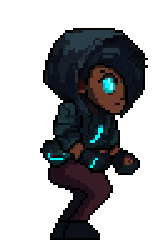
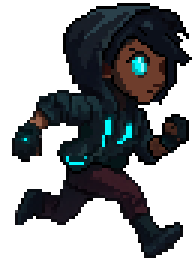
troca inicial de fases e run inicial

diff --git a/levels.py b/levels.py
@@ -1,0 +1,246 @@
+import pgzrun, random, time
+from pygame import Rect
+
+#region GameConfig
+WIDTH, HEIGHT, TITLE = (1280, 720, "Neo-Nina and The Systems")
+GRAVITY, MAX_ALLIES = (0.4, 3)
+
+slower_anim_nina = 3
+game_level, bg_game = (1, None)
+platforms, enemies = ([], [])
+
+bg_music = 'Hardware_Prototype.wav'
+bg_menu = Actor("background_menu", (WIDTH//2, HEIGHT//2))
+#endregion
+#region Classes
+class NeonNina:
+    def __init__(self, x, y):
+        self.actor = Actor('neon_nina_idle_1', (x, y))
+        self.vx, self.vy = (0, 0)
+        self.speed, self.on_ground = (4, False)
+        self.action = 'idle'
+        self.animations = {
+            'idle': ['neon_nina_idle_1', 'neon_nina_idle_2'],
+            'jump': ['neon_nina_jump_1','neon_nina_jump_2','neon_nina_jump_3'],
+            'run': ['neon_nina_run_1', 'neon_nina_run_2'],
+            'hit': ['neon_nina_hit'],
+        }
+        self.frame, self.last_frame_time = 0, time.time()
+        self.animation_delay = slower_anim_nina * 0.1
+        self.allies, self.hp = [], 100
+
+    def draw(self):
+        self.actor.draw()
+
+    def update(self):
+        if not self.on_ground:
+            self.action = 'jump'
+        elif keyboard.left:
+            self.vx, self.actor.flip_x, self.action = -self.speed, True, 'run'
+        elif keyboard.right:
+            self.vx, self.actor.flip_x, self.action = self.speed, False, 'run'
+        else:
+            if keyboard.up:
+                self.vy, self.on_ground, self.action = -12, False, 'jump'
+            else:
+                self.vx, self.action = 0, 'idle'
+
+        self.vy += GRAVITY
+        self.actor.x += self.vx
+        self.actor.y += self.vy
+
+        self.actor.x = max(0, min(WIDTH, self.actor.x))
+        self.on_ground = False
+
+        for p in platforms:
+            if self.actor.colliderect(p.rect()) and self.vy >= 0:
+                self.actor.y = p.rect().top - self.actor.height // 2
+                self.vy, self.on_ground = 0, True
+
+        if self.actor.x > WIDTH-48:
+            change_level()
+
+        self.animate()
+
+    def animate(self):
+        now = time.time()
+        if now - self.last_frame_time >= self.animation_delay:
+            frames = self.animations[self.action]
+            self.frame = (self.frame + 1) % len(frames)
+            self.actor.image = frames[self.frame]
+            self.last_frame_time = now
+
+class Platform:
+    def __init__(self, x, y, sprite):
+        self.actor = Actor(sprite, (x, y))
+    def draw(self): self.actor.draw()
+    def rect(self): return self.actor._rect
+
+class EnemyDrone:
+    def __init__(self, x, y):
+        self.actor = Actor('enemy_drone', (x, y))
+        self.vy = random.choice([-1.5, 1.5]) * random.uniform(0.8, 1.6)
+        self.upper_limit, self.lower_limit = y - 40, y + 40
+        self.ally, self.target = False, None
+
+    def update(self):
+        self.actor.y += self.vy
+        if self.actor.y < self.upper_limit or self.actor.y > self.lower_limit:
+            self.vy *= -1
+        if self.actor.distance_to(session.neon_nina.actor) < 200:
+            self.attack(session.neon_nina.actor)
+
+    def attack(self, target):
+        screen.draw.line(self.actor.pos, target.pos, "yellow")
+    def draw(self): self.actor.draw()
+
+class GameSession:
+    def __init__(self):
+        self.reset()
+        self.neon_nina = NeonNina(WIDTH // 2, HEIGHT // 2)
+        self.enemies = []
+
+    def reset(self):
+        self.state = 'menu'
+
+    def update(self):
+        self.neon_nina.update()
+        for enemy in self.enemies:
+            enemy.update()
+
+    def draw(self):
+        screen.clear()
+        if self.state == 'playing':
+            self.neon_nina.draw()
+        for enemy in self.enemies:
+            enemy.draw()
+
+    def start_game(self):
+        self.reset()
+        self.state = 'playing'
+        self.neon_nina = NeonNina(100, 400)
+        self.enemies = drones
+
+    def game_over(self):
+        pass  # Disabled to prevent interruption during level testing
+
+class Level:
+    def __init__(self, phase, bg):
+        self.bg = bg
+        self.phase = phase
+        self.active = False
+
+    def start(self):
+        global bg_game
+        self.active = True
+        bg_game = Actor(self.bg, (WIDTH // 2, HEIGHT // 2))
+
+    def draw(self):
+        if self.active and bg_game:
+            bg_game.draw()
+#endregion
+
+#region Level system
+levels = [
+    Level(1, 'background_city_1'),
+    Level(2, 'background_city_2'),
+    Level(3, 'background_city_2')
+]
+current_level_index = 0
+current_level = levels[current_level_index]
+
+def change_level():
+    global current_level_index, platforms, drones
+    current_level_index += 1
+    if current_level_index >= len(levels):
+        session.state = 'victory'
+        return
+    current_level = levels[current_level_index]
+    current_level.start()
+    session.neon_nina.actor.pos = (100, HEIGHT // 2)
+    session.neon_nina.vx = session.neon_nina.vy = 0
+
+    if current_level_index == 1:
+        platforms = [Platform(128 + i * 128, 512, 'plataform_ground') for i in range(4)]
+        drones = [EnemyDrone(600, 100), EnemyDrone(700, 200)]
+    elif current_level_index == 2:
+        platforms = [Platform(100 + i * 200, 400, 'plataform_media') for i in range(3)]
+        drones = [EnemyDrone(500, 150), EnemyDrone(300, 200), EnemyDrone(800, 180)]
+#endregion
+
+#region Session
+session = GameSession()
+levels[current_level_index].start()  # Set background for first level
+
+platforms = (
+    [Platform(128 + i * 128, 512, 'plataform_ground') for i in range(3)] +
+    [Platform(640 + i * 128, 368, 'plataform_media') for i in range(2)] +
+    [Platform(1058 + i * 128, 256, 'plataform_special') for i in range(1)]
+)
+
+drones = [EnemyDrone(600, 100), EnemyDrone(700, 200), EnemyDrone(400, 150)]
+
+menu_buttons = [
+    {"label": "Play", "action": "play", "rect": Rect((WIDTH // 2 - 60, 200), (120, 40))},
+    {"label": "Exit", "action": "exit", "rect": Rect((WIDTH // 2 - 60, 260), (120, 40))}
+]
+#endregion
+
+#region Game loop
+def update():
+    if session.state == 'playing':
+        session.update()
+        for d in drones: d.update()
+        if keyboard.h:
+            pass  # session.neon_nina.hacking() placeholder
+
+def draw():
+    if session.state == 'menu':
+        draw_menu()
+    elif session.state == 'playing':
+        if bg_game: bg_game.draw()
+        for p in platforms: p.draw()
+        for d in drones: d.draw()
+        session.neon_nina.draw()
+    elif session.state == 'victory':
+        draw_victory()
+    elif session.state == 'gameover':
+        draw_game_over()
+#endregion
+
+#region Events
+def on_mouse_down(pos):
+    if session.state == 'menu':
+        for button in menu_buttons:
+            if button["rect"].collidepoint(pos):
+                if button["action"] == "play":
+                    session.start_game()
+                elif button["action"] == "exit":
+                    quit()
+
+def on_key_down(key):
+    if session.state in ['gameover', 'victory'] and key == keys.RETURN:
+        session.reset()
+#endregion
+
+#region UI
+def draw_menu():
+    bg_menu.draw()
+    screen.draw.text("Neo-Nina and the Systems", center=(WIDTH // 2 - 64, 100),
+                     fontsize=64, color="white")
+    for button in menu_buttons:
+        screen.draw.filled_rect(button["rect"], "gray")
+        screen.draw.text(button["label"], center=button["rect"].center,
+                         fontsize=40, color="white")
+
+def draw_game_over():
+    screen.fill("darkred")
+    screen.draw.text("GAME OVER", center=(WIDTH // 2, HEIGHT // 2), fontsize=60, color="white")
+    screen.draw.text("Press Enter to return to menu", center=(WIDTH // 2, HEIGHT // 2 + 60), fontsize=48, color="white")
+
+def draw_victory():
+    screen.fill("darkgreen")
+    screen.draw.text("VICTORY!", center=(WIDTH // 2, HEIGHT // 2), fontsize=60, color="white")
+    screen.draw.text("Press Enter to return to menu", center=(WIDTH // 2, HEIGHT // 2 + 60), fontsize=48, color="white")
+#endregion
+pgzrun.go()
